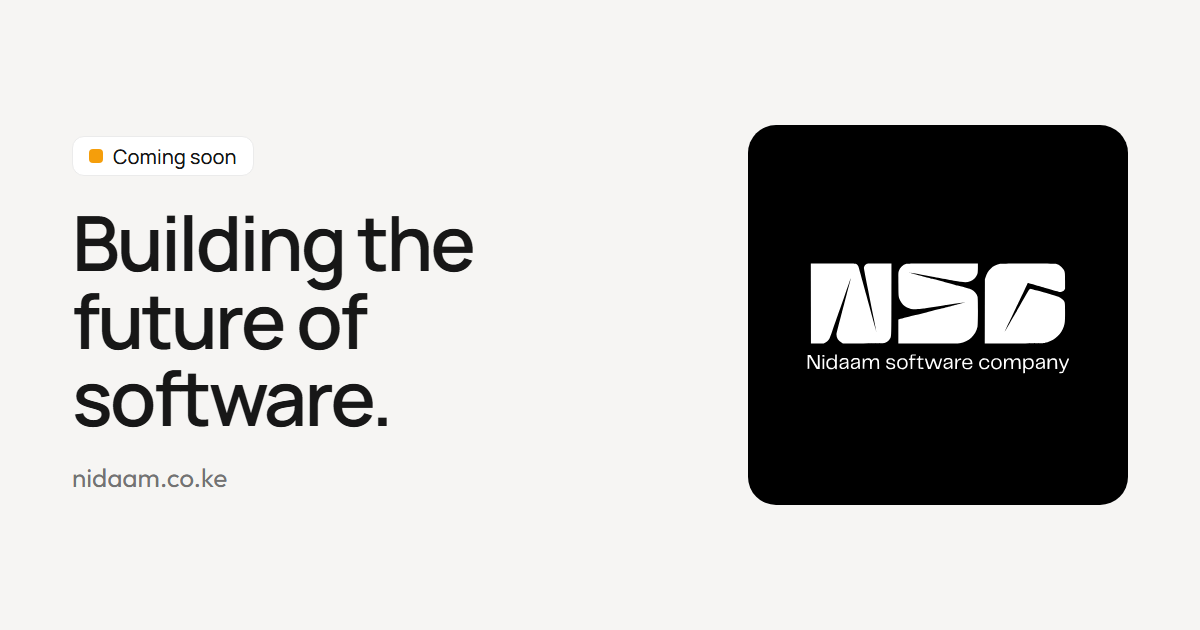
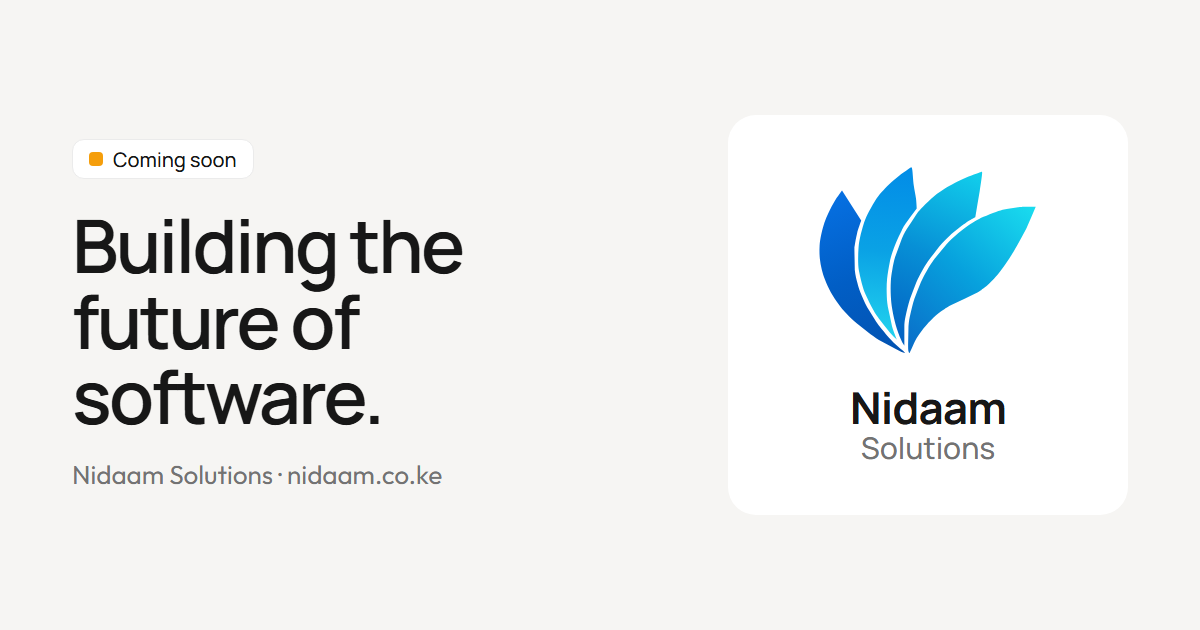
Final

diff --git a/index.html b/index.html
@@ -5,10 +5,10 @@
     <meta name="viewport" content="width=device-width, initial-scale=1.0, viewport-fit=cover" />
 
     <!-- Primary SEO -->
-    <title>Nidaam Software Company — Building the future of software</title>
+    <title>Nidaam Solutions — Building the future of software</title>
     <meta
       name="description"
-      content="Nidaam Software Company (NSC) builds custom software, web and mobile applications, AI solutions and business automation systems. Our platform and services are coming soon."
+      content="Nidaam Solutions builds custom software, web and mobile applications, AI solutions and business automation systems for businesses in Nairobi, Kenya and beyond. Our platform and services are coming soon."
     />
     <meta name="robots" content="index, follow" />
     <meta name="theme-color" content="#f6f5f3" />
@@ -33,10 +33,10 @@
 
     <!-- Open Graph -->
     <meta property="og:type" content="website" />
-    <meta property="og:site_name" content="Nidaam Software Company" />
+    <meta property="og:site_name" content="Nidaam Solutions" />
     <meta property="og:locale" content="en_US" />
     <meta property="og:url" content="https://nidaam.co.ke/" />
-    <meta property="og:title" content="Nidaam Software Company — Building the future of software" />
+    <meta property="og:title" content="Nidaam Solutions — Building the future of software" />
     <meta
       property="og:description"
       content="Custom software, web and mobile applications, AI and business automation. Coming soon."
@@ -44,11 +44,11 @@
     <meta property="og:image" content="https://nidaam.co.ke/og-image.png" />
     <meta property="og:image:width" content="1200" />
     <meta property="og:image:height" content="630" />
-    <meta property="og:image:alt" content="Nidaam Software Company — Building the future of software." />
+    <meta property="og:image:alt" content="Nidaam Solutions — Building the future of software." />
 
     <!-- Twitter / X -->
     <meta name="twitter:card" content="summary_large_image" />
-    <meta name="twitter:title" content="Nidaam Software Company — Building the future of software" />
+    <meta name="twitter:title" content="Nidaam Solutions — Building the future of software" />
     <meta
       name="twitter:description"
       content="Custom software, web and mobile applications, AI and business automation. Coming soon."
@@ -60,19 +60,18 @@
       {
         "@context": "https://schema.org",
         "@type": "Organization",
-        "name": "Nidaam Software Company",
-        "alternateName": [
-          "Nidaam",
-          "NSC"
-        ],
+        "name": "Nidaam Solutions",
+        "legalName": "Nidaam Solutions",
         "url": "https://nidaam.co.ke",
         "logo": "https://nidaam.co.ke/apple-touch-icon.png",
         "email": "info@nidaam.co.ke",
         "telephone": "+254722261776",
-        "description": "Nidaam Software Company builds custom software, web applications, mobile apps, AI solutions and business automation systems.",
+        "foundingDate": "2026-10-25",
+        "description": "Nidaam Solutions builds custom software, web applications, mobile apps, AI solutions and business automation systems.",
         "address": {
           "@type": "PostalAddress",
-          "streetAddress": "Hodo Souk, 2nd Floor, Captain Murithi Rd",
+          "streetAddress": "Hodo Souk, Captain Mungai Street, Eastleigh",
+          "addressLocality": "Nairobi",
           "addressCountry": "KE"
         },
         "sameAs": [
@@ -93,7 +92,7 @@
   <body>
     <noscript>
       <p style="padding: 2rem; font-family: system-ui, sans-serif; color: #171717">
-        Nidaam Software Company — Building the future of software. Our platform and services are coming soon.
+        Nidaam Solutions — Building the future of software. Our platform and services are coming soon.
         Contact us at <a href="mailto:info@nidaam.co.ke" style="color: inherit">info@nidaam.co.ke</a>.
       </p>
     </noscript>

diff --git a/src/components/LaunchTicket.tsx b/src/components/LaunchTicket.tsx
@@ -3,6 +3,7 @@ import { Activity } from 'lucide-react';
 import { site, type LaunchStageStatus } from '../config/site';
 import { usePrefersReducedMotion } from '../hooks/usePrefersReducedMotion';
 import { cn } from '../lib/cn';
+import { LogoMark, wordmark } from './brand/Logo';
 import { StatusPill, ToneBadge, statusColors, toneValue } from './ui/Badge';
 
 const COUNT_DURATION_MS = 1600;
@@ -61,7 +62,7 @@ interface LaunchTicketProps {
 }
 
 /**
- * The launch "ticket": a black stub carrying the NSC logo, a dashed tear with
+ * The launch "ticket": a black stub carrying the logo, a dashed tear with
  * notches, then build progress and the stage pills.
  */
 export function LaunchTicket({ className }: LaunchTicketProps) {
@@ -80,13 +81,13 @@ export function LaunchTicket({ className }: LaunchTicketProps) {
     <div className={cn('rounded-xl bg-card text-card-foreground', className)}>
       {/* Stub */}
       <div className="relative flex flex-col gap-6 rounded-t-xl bg-neutral-950 p-5 text-white sm:flex-row sm:items-end sm:justify-between sm:p-6 dark:bg-black">
-        <img
-          src="/logo-lockup-white.svg"
-          alt={site.name}
-          width={1101}
-          height={463}
-          className="h-16 w-auto self-start sm:h-18"
-        />
+        <div className="flex items-center gap-3.5 self-start">
+          <LogoMark className="h-14 sm:h-16" />
+          <div className="flex flex-col">
+            <span className="text-2xl font-bold leading-[1.05] tracking-tight sm:text-[1.75rem]">{wordmark.first}</span>
+            <span className="text-base font-medium leading-[1.1] text-white/55 sm:text-lg">{wordmark.rest}</span>
+          </div>
+        </div>
         <dl className="grid grid-cols-2 gap-x-6 gap-y-3 sm:grid-cols-1 sm:text-right">
           <div>
             <dt className="text-xs text-white/55">Now building</dt>
@@ -94,7 +95,9 @@ export function LaunchTicket({ className }: LaunchTicketProps) {
           </div>
           <div>
             <dt className="text-xs text-white/55">Based in</dt>
-            <dd className="mt-0.5 text-[15px] font-semibold">{site.contact.country}</dd>
+            <dd className="mt-0.5 text-[15px] font-semibold">
+              {site.contact.city}, {site.contact.country}
+            </dd>
           </div>
         </dl>
         <span aria-hidden="true" className={cn(notch, '-left-2')} />

diff --git a/src/components/brand/Logo.tsx b/src/components/brand/Logo.tsx
@@ -1,23 +1,47 @@
+import { site } from '../../config/site';
 import { cn } from '../../lib/cn';
 
 interface LogoMarkProps {
-  /** Set the height (and a matching corner radius); width follows the 56:32 badge. */
+  /** Sets the height; the width follows the mark's proportions. */
   className?: string;
 }
 
-/**
- * NSC badge: the lettermark from /public/logo.svg on a black rounded badge.
- * Swap /public/logo-mark.svg to change it everywhere.
- */
+/** The Nidaam petal mark from /public/logo.svg. Swap that file to change it everywhere. */
 export function LogoMark({ className }: LogoMarkProps) {
   return (
     <img
-      src="/logo-mark.svg"
+      src="/logo.svg"
       alt=""
-      width={56}
-      height={32}
+      width={586}
+      height={502}
       decoding="async"
-      className={cn('w-auto shrink-0 dark:ring-1 dark:ring-white/15', className ?? 'h-7 rounded-[7px]')}
+      className={cn('w-auto shrink-0', className ?? 'h-7')}
     />
+  );
+}
+
+const [firstWord, ...otherWords] = site.name.split(' ');
+
+/** The company name split for the two-line wordmark: "Nidaam" / "Solutions". */
+export const wordmark = { first: firstWord, rest: otherWords.join(' ') };
+
+interface LogoProps {
+  className?: string;
+  markClassName?: string;
+}
+
+/**
+ * Mark plus the stacked wordmark ("Nidaam" over "Solutions"). The words are
+ * real text, so they follow the theme: dark on light pages, white in dark mode.
+ */
+export function Logo({ className, markClassName }: LogoProps) {
+  return (
+    <span className={cn('inline-flex items-center gap-2.5', className)}>
+      <LogoMark className={markClassName} />
+      <span className="flex flex-col">
+        <span className="text-[15px] font-bold leading-[1.1] tracking-tight text-foreground">{wordmark.first}</span>
+        <span className="text-[13px] font-medium leading-[1.1] text-muted-foreground">{wordmark.rest}</span>
+      </span>
+    </span>
   );
 }

diff --git a/src/components/layout/SiteHeader.tsx b/src/components/layout/SiteHeader.tsx
@@ -2,7 +2,7 @@ import { useEffect, useState } from 'react';
 import { Moon, Sun } from 'lucide-react';
 import { site } from '../../config/site';
 import { setTheme, useTheme } from '../../hooks/useTheme';
-import { LogoMark } from '../brand/Logo';
+import { Logo } from '../brand/Logo';
 import { Button, ButtonLink } from '../ui/Button';
 import { Container } from '../ui/Container';
 
@@ -30,7 +30,7 @@ function KenyaClock() {
 
   return (
     <span className="hidden items-baseline gap-1.5 text-base font-medium tabular-nums lg:inline-flex">
-      <span className="text-[13px] text-muted-foreground">{site.contact.country}</span>
+      <span className="text-[13px] text-muted-foreground">{site.contact.city}</span>
       <time dateTime={now.toISOString()}>{kenyaTime.format(now)}</time>
     </span>
   );
@@ -46,13 +46,9 @@ export function SiteHeader() {
         <a
           href="#home"
           aria-label={`${site.name}, back to top`}
-          className="inline-flex h-9 items-center gap-2 rounded-lg bg-black/5 pl-1 pr-3 outline-none transition-colors hover:bg-black/8 focus-visible:ring-3 focus-visible:ring-ring/50 dark:bg-white/10 dark:hover:bg-white/15"
+          className="inline-flex h-11 items-center rounded-lg bg-black/5 pl-2 pr-3.5 outline-none transition-colors hover:bg-black/8 focus-visible:ring-3 focus-visible:ring-ring/50 dark:bg-white/10 dark:hover:bg-white/15"
         >
-          <LogoMark />
-          <span className="text-[15px] font-semibold tracking-tight">
-            {site.shortName}
-            <span className="hidden font-medium text-muted-foreground sm:inline"> Software Company</span>
-          </span>
+          <Logo />
         </a>
 
         <div className="flex items-center gap-1">

diff --git a/src/config/site.ts b/src/config/site.ts
@@ -14,11 +14,10 @@ export interface LaunchStage {
 }
 
 export const site = {
-  name: 'Nidaam Software Company',
+  name: 'Nidaam Solutions',
   shortName: 'Nidaam',
-  abbreviation: 'NSC',
   description:
-    'Nidaam Software Company is creating powerful digital solutions that help businesses operate, grow, and innovate. Our platform and services are coming soon.',
+    'Nidaam Solutions is creating powerful digital products that help businesses operate, grow, and innovate. Our platform and services are coming soon.',
   copyrightYear: 2026,
 
   contact: {
@@ -26,7 +25,8 @@ export const site = {
     /** International format, digits only after the "+". Also drives the WhatsApp link. */
     phone: '+254722261776',
     phoneDisplay: '+254 722 261 776',
-    address: 'Hodo Souk, 2nd Floor, Captain Murithi Rd',
+    address: 'Hodo Souk, Captain Mungai Street, Eastleigh',
+    city: 'Nairobi',
     country: 'Kenya',
   },
 

diff --git a/src/components/layout/SiteFooter.tsx b/src/components/layout/SiteFooter.tsx
@@ -27,13 +27,13 @@ export function SiteFooter() {
       <Container>
         <div className="flex flex-col gap-6 lg:flex-row lg:items-center lg:justify-between">
           <div className="flex items-start gap-3">
-            <LogoMark className="h-9 rounded-[9px]" />
+            <LogoMark className="h-10" />
             <div>
               <div className="text-[15px] font-semibold tracking-tight">{site.name}</div>
               <address className="mt-0.5 flex items-start gap-1.5 text-[13px] not-italic text-muted-foreground">
                 <MapPin className="mt-0.5 size-3.5 shrink-0" aria-hidden="true" />
                 <span>
-                  {site.contact.address}, {site.contact.country}
+                  {site.contact.address}, {site.contact.city}, {site.contact.country}
                 </span>
               </address>
             </div>

diff --git a/README.md b/README.md
@@ -1,6 +1,6 @@
-# Nidaam Software Company — launch page
+# Nidaam Solutions — launch page
 
-The "coming soon" site for **Nidaam Software Company (NSC)**. Built with React 19, TypeScript, Vite and Tailwind CSS v4. Icons come from Lucide. There are no other runtime dependencies.
+The "coming soon" site for **Nidaam Solutions** (Nairobi, Kenya). Built with React 19, TypeScript, Vite and Tailwind CSS v4. Icons come from Lucide. There are no other runtime dependencies.
 
 ```bash
 npm install
@@ -16,10 +16,8 @@ npm run preview    # serve dist/ locally
 ```
 index.html                     SEO tags, Open Graph, JSON-LD, fonts, no-flash theme script
 public/
-  logo.svg                     Original logo (black square, NSC + "Nidaam software company")
-  logo-mark.svg                NSC badge used in the header and footer
-  logo-lockup-white.svg        White NSC lockup used on the launch ticket
-  favicon.svg                  Browser tab icon (the "N")
+  logo.svg                     The Nidaam petal mark (header, footer, launch ticket)
+  favicon.svg                  Browser tab icon (the same mark on a square canvas)
   apple-touch-icon.png         iOS home-screen icon, 180×180
   og-image.png                 Link preview image, 1200×630
 src/
@@ -48,7 +46,8 @@ contact: {
   email: 'info@nidaam.co.ke',
   phone: '+254722261776',            // also builds the WhatsApp link (wa.me)
   phoneDisplay: '+254 722 261 776',
-  address: 'Hodo Souk, 2nd Floor, Captain Murithi Rd',
+  address: 'Hodo Souk, Captain Mungai Street, Eastleigh',
+  city: 'Nairobi',
   country: 'Kenya',
 },
 social: {
@@ -59,18 +58,17 @@ social: {
 },
 ```
 
-Then update the copies in `index.html`: the canonical URL, `og:url`, `og:image`, the JSON-LD block (`url`, `email`, `telephone`, `address`, `sameAs`) and the `<noscript>` email. Search engines and link previews read these without running JavaScript, so they can't be generated at runtime.
+Then update the copies in `index.html`: the canonical URL, `og:url`, `og:image`, the JSON-LD block (`url`, `email`, `telephone`, `address`, `foundingDate`, `sameAs`) and the `<noscript>` email. Search engines and link previews read these without running JavaScript, so they can't be generated at runtime.
 
 **To add LinkedIn:** put the company page URL in `social.linkedin` and add it to `sameAs` in `index.html`.
 
 ### Logo
 
-Replace the files in `public/` and keep the same names:
+The wordmark ("Nidaam" over "Solutions") is real text set next to the mark and built from `site.name`, so it turns white in dark mode on its own. To change the artwork, replace these files in `public/` and keep the same names:
 
 | File | Used for | Notes |
 |---|---|---|
-| `logo-mark.svg` | Header and footer badge | 56×32 ratio, rounded black badge |
-| `logo-lockup-white.svg` | Launch ticket (on black) | White artwork, transparent background |
+| `logo.svg` | Header, footer, launch ticket | Mark only, no text; must read on light and dark |
 | `favicon.svg` | Browser tab | Square |
 | `apple-touch-icon.png` | iOS home screen, JSON-LD logo | 180×180 PNG |
 | `og-image.png` | WhatsApp, LinkedIn and X link previews | 1200×630 PNG |
